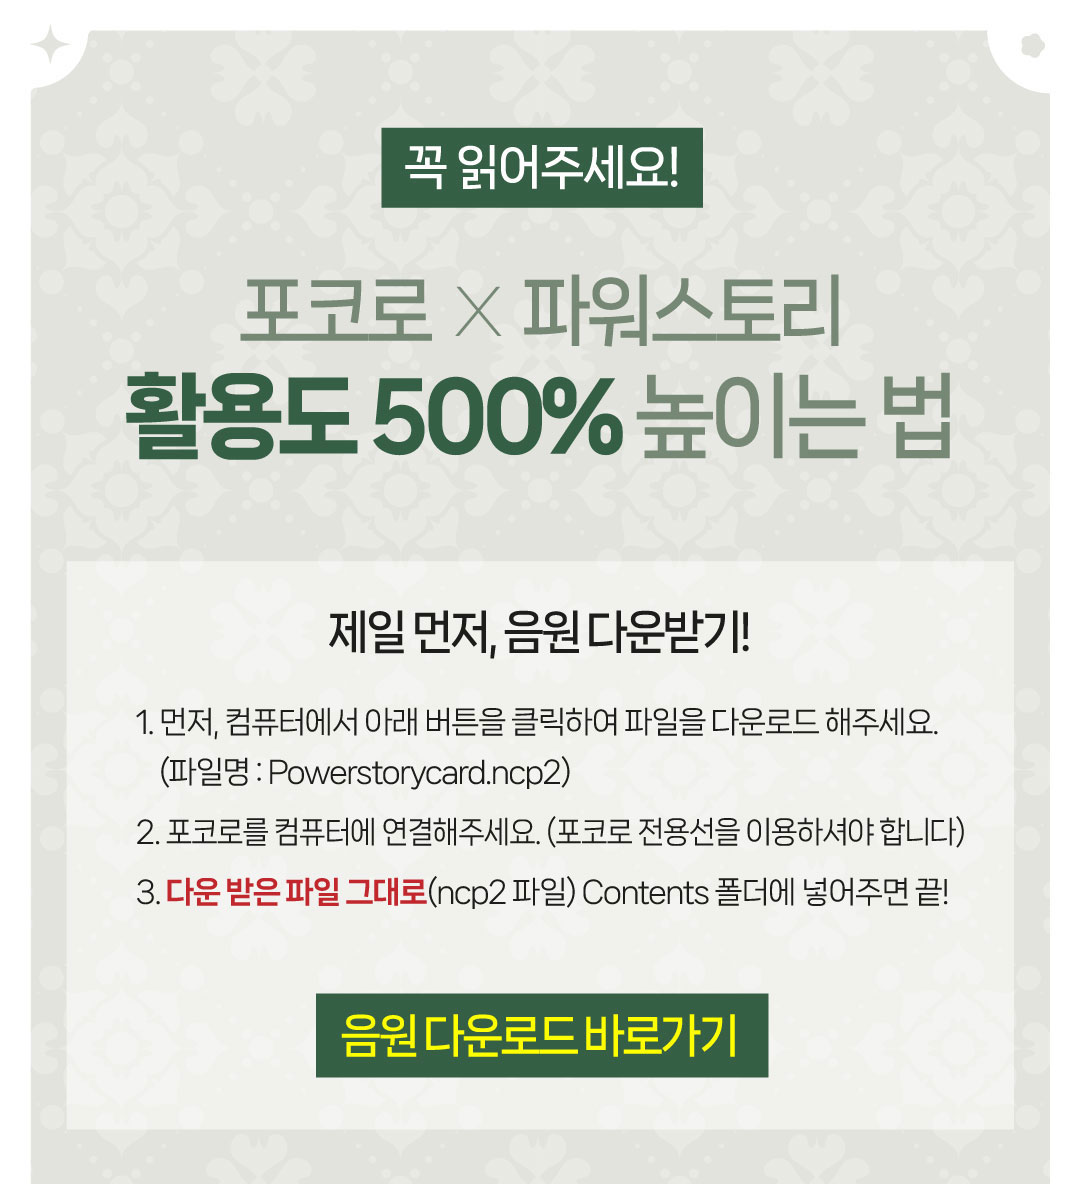
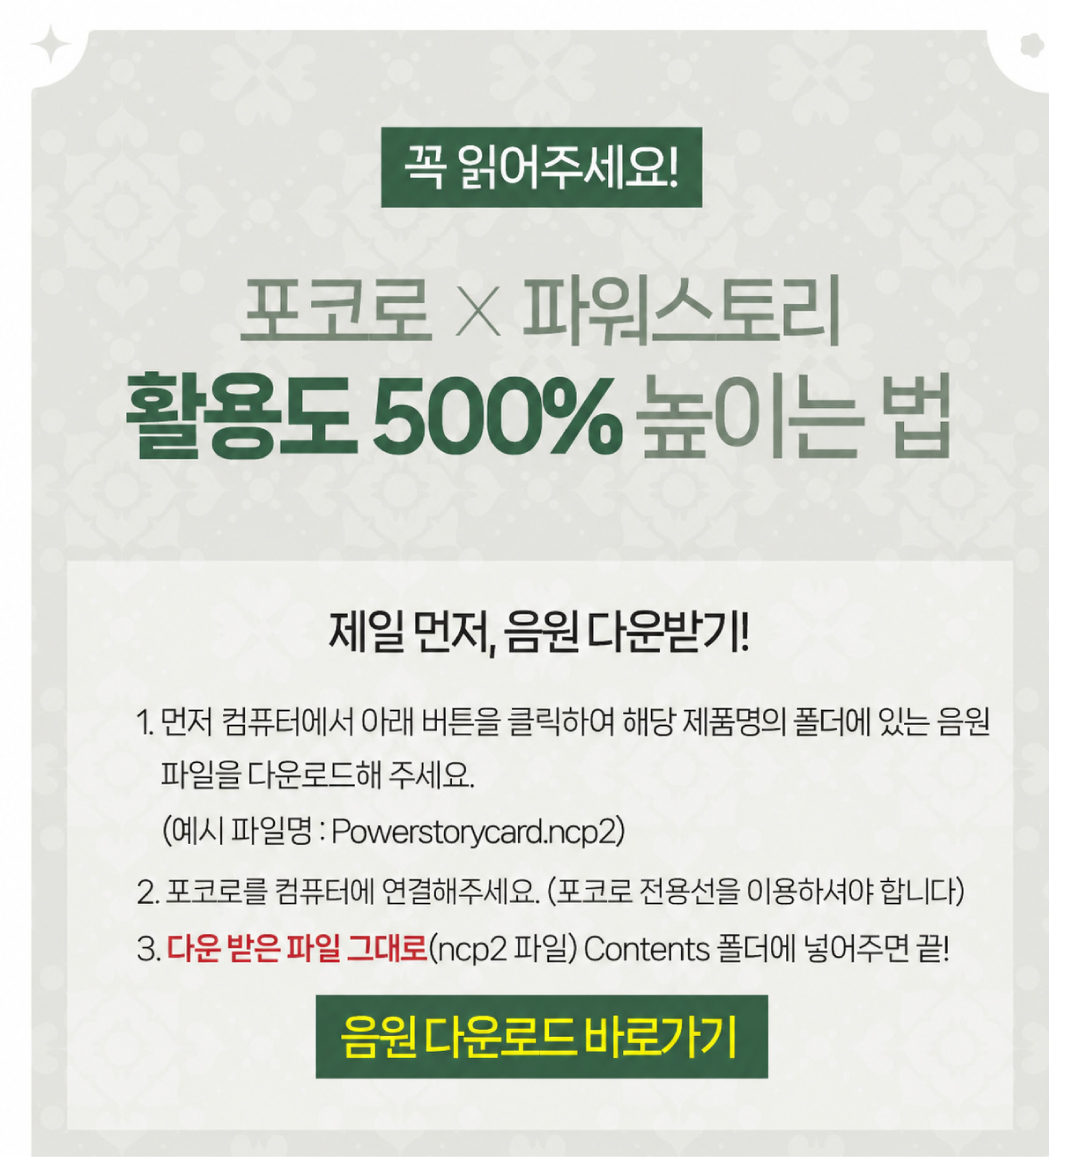
Add files via upload

diff --git a/index.html b/index.html
@@ -10,7 +10,7 @@
 <body>
     <div class="wrap">
         <div class="link-img">
-            <a href="https://drive.google.com/file/d/1pYVP9J8US92hYTeDaiT1EVUBAbBM9YuI/view?usp=sharing">
+            <a href="https://drive.google.com/drive/folders/1pH2fo8vvq5tS5BZ41FV3kfBrJf34xtQv">
                 <img src="./img/info01.jpg" alt="informaiton">
             </a>
         </div>
